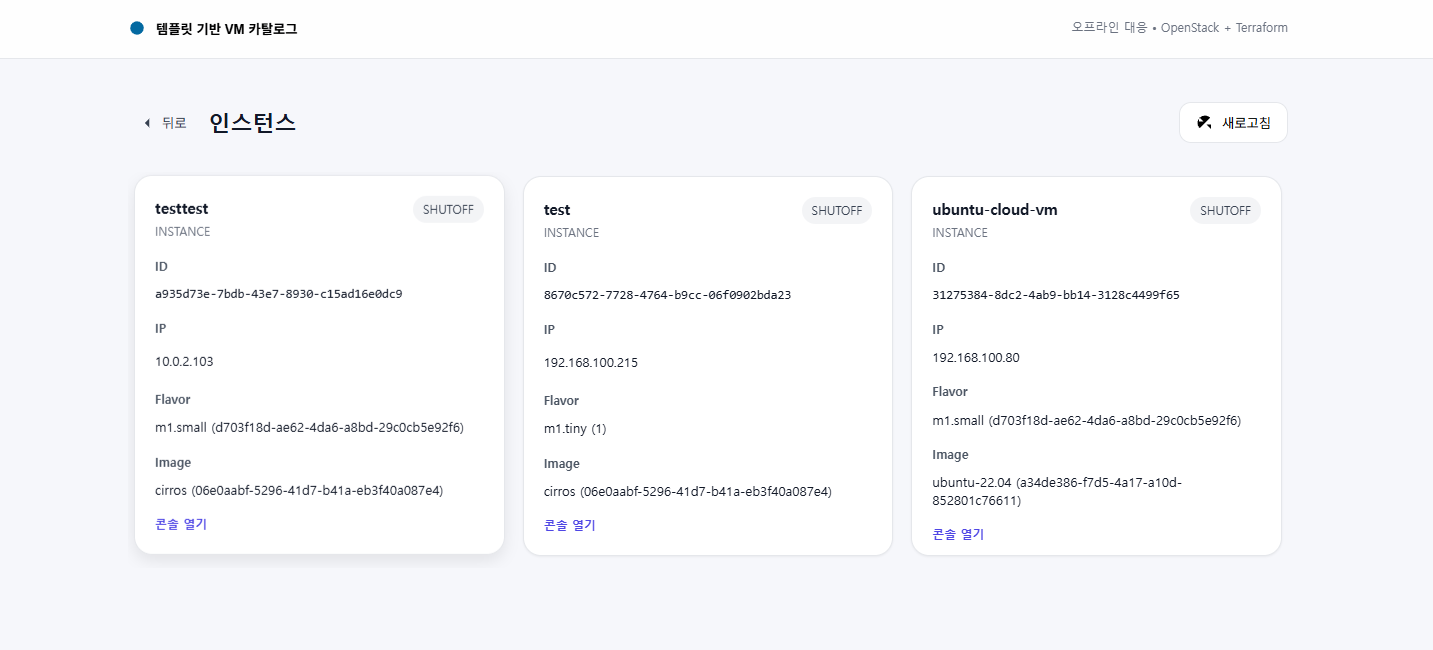
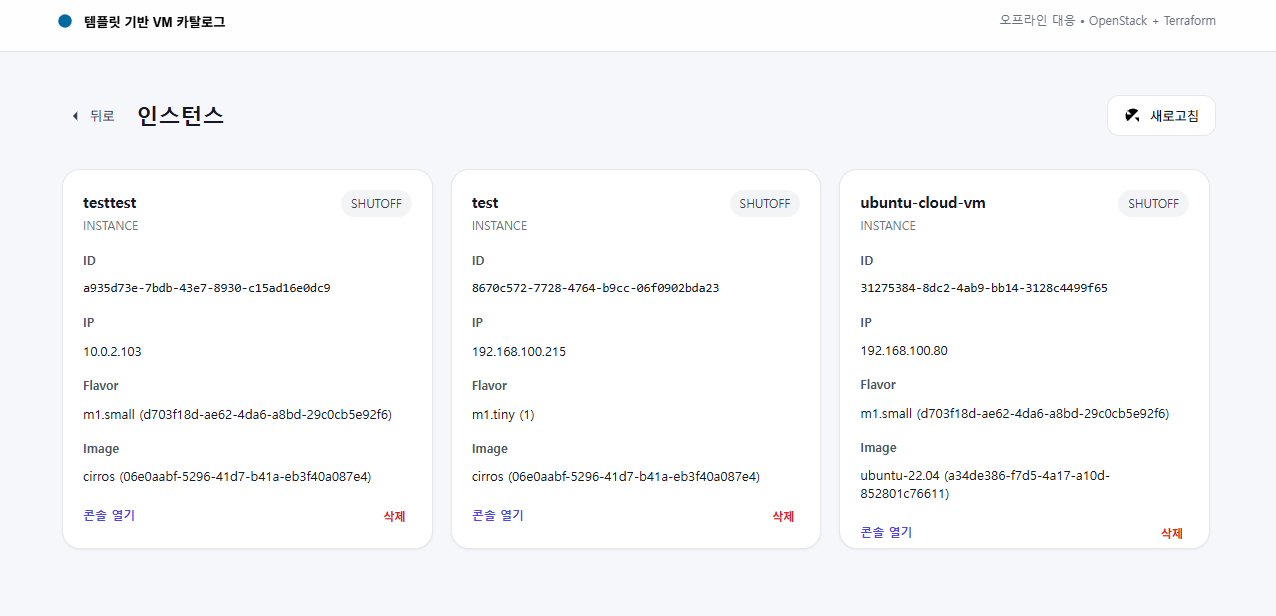
feat: 삭제 버튼 추가

diff --git a/src/main/resources/static/app.js b/src/main/resources/static/app.js
@@ -151,6 +151,8 @@ function renderInstances(items) {
             ? `<a class="console-link" href="${it.consoleUrl}" target="_blank" rel="noreferrer">콘솔 열기</a>`
             : `<span class="muted" style="font-size:12px;">콘솔 URL 없음</span>`;
 
+        const deleteBtn = `<button class="link-delete" data-id="${escapeHtml(it.id || '')}">삭제</button>`;
+
         const el = document.createElement("div");
         el.className = "card instance";
         el.innerHTML = `
@@ -178,11 +180,28 @@ function renderInstances(items) {
           <span class="label">Image</span>
           <span class="value">${escapeHtml(image)}</span>
         </div>
-        <div class="kv">
-          ${consoleHtml}
+        <div class="kv kv-actions">
+          <div>${consoleHtml}</div>
+          <div>${deleteBtn}</div>
         </div>
       </div>
     `;
+        const delBtn = el.querySelector("button.link-delete");
+        if (delBtn) {
+            delBtn.addEventListener("click", async () => {
+                const targetId = it.id;
+                if (!targetId) { alertMsg("삭제할 ID가 없습니다.", true); return; }
+                if (!confirm(`이 인스턴스(ID: ${targetId})를 삭제할까요?`)) return;
+                try {
+                    const resp = await fetch(`${API_BASE}/api/orders/${encodeURIComponent(targetId)}`, { method: "DELETE" });
+                    if (!resp.ok) throw new Error(await resp.text());
+                    alertMsg("삭제 요청을 보냈습니다.");
+                    loadInstances();
+                } catch (e) {
+                    alertMsg(`삭제 실패: ${e.message || e}`, true);
+                }
+            });
+        }
         grid.appendChild(el);
     });
 }

diff --git a/src/main/resources/static/styles.css b/src/main/resources/static/styles.css
@@ -89,6 +89,8 @@ body{margin:0;background:var(--bg);color:var(--ink);font:15px/1.6 system-ui,-app
 .btn.ghost{background:#fff}
 .btn.primary{background:var(--sky);color:#fff;border-color:transparent}
 .btn.primary:hover{background:#065985}
+.btn.danger{background:#fee2e2;border-color:#fecdd3;color:#991b1b}
+.btn.danger:hover{background:#fecdd3}
 .spinner{width:16px;height:16px;border:2px solid rgba(255,255,255,.5);border-top-color:#fff;border-radius:50%;display:inline-block;animation:spin .8s linear infinite;margin-right:6px}
 .loading .spinner{border-color:#d1d5db;border-top-color:#6b7280}
 @keyframes spin{to{transform:rotate(360deg)}}
@@ -121,6 +123,9 @@ body{margin:0;background:var(--bg);color:var(--ink);font:15px/1.6 system-ui,-app
 .card.instance .kv .value{color:#111827;line-height:1.4}
 .card.instance .kv .value,
 .card.instance .kv .mono{word-break:break-word}
+.card.instance .kv.kv-actions{display:flex;align-items:center;justify-content:space-between;gap:10px;margin-top:4px}
+.card.instance .link-delete{background:none;border:0;padding:4px 6px;border-radius:8px;color:#dc2626;font-weight:700;font-size:12px;cursor:pointer}
+.card.instance .link-delete:hover{text-decoration:underline;background:#fee2e2}
 .card.instance .kv .mono{font-family:ui-monospace, SFMono-Regular, Menlo, Monaco, Consolas, "Liberation Mono", "Courier New", monospace;font-size:12.5px}
 .card.instance .console-link{font-size:12px;font-weight:700;color:var(--indigo);text-decoration:none}
 .card.instance .console-link:hover{text-decoration:underline}

diff --git a/README.md b/README.md
@@ -1,39 +1,124 @@
 # VMCatalog
-Terraform과 openstack4j 사용 실습을 위한 학습용 프로젝트입니다.
+**Terraform + OpenStack(openstack4j) 기반 VM 셀프서비스 카탈로그 학습 프로젝트**
 
-오프라인 환경에서도 즉시 VM을 생성·부팅하고, 첫 부팅 시 cloud-init으로 내부 설정을 자동 적용하는 셀프서비스 카탈로그 웹앱입니다. OpenStack과 Terraform을 사용하며, 역할별 템플릿(Web/DB)을 제공합니다.
-![img.png](img.png)
+Terraform과 openstack4j를 활용하여 
+**오프라인(OpenStack 내부망) 환경에서도 즉시 VM을 생성·부팅하고 cloud-init으로 초기 설정을 자동 적용**할 수 있는  
+템플릿 기반 VM 카탈로그 웹 애플리케이션입니다.
 
-![img_1.png](img_1.png)
+사용자는 **템플릿(Web / DB)** 을 선택하고 hostname만 입력하면,  
+인프라 설정을 직접 작성하지 않아도 VM을 온디맨드로 생성할 수 있습니다.
+
+---
+
+## 화면 미리보기
+
+### 1. 템플릿 기반 VM 카탈로그 화면
+![카탈로그 화면](img.png)
+
+- Web / DB 역할별 VM 템플릿 제공
+- 각 템플릿은 사전 정의된 리소스 스펙과 cloud-init 설정을 포함
+- Terraform → OpenStack 자동 프로비저닝 흐름을 시각적으로 표현
+
+### 2. 인스턴스 목록 화면
+![인스턴스 목록 화면](img_1.png)
+
+- 생성된 VM 인스턴스를 카드 형태로 나열
+- 상태, IP, Flavor, Image 등 주요 정보 한눈에 확인
+- OpenStack 콘솔 접근 링크 제공
+
+---
 
 ## 핵심 개념
-- 카탈로그 항목(템플릿): Web, DB 두 종류의 역할 정의. 각 템플릿은 기본 리소스 스펙과 cloud-init 템플릿 경로를 갖습니다.
-- 주문(Order): 사용자가 템플릿을 선택하고 hostname만 입력하면 VM 1대를 온디맨드로 생성합니다.
+
+### 템플릿(카탈로그 항목)
+- VM 역할을 정의하는 사전 설정 단위
+- 제공 템플릿
+    - **Web**: Nginx 기반 웹 서버
+    - **DB**: MariaDB/MySQL 단일 노드
+- 각 템플릿은 다음 정보를 포함
+    - 기본 리소스 스펙 (Image, Flavor, Network)
+    - cloud-init 템플릿 경로
+
+### 주문(Order)
+- 사용자가 템플릿을 선택하고 hostname을 입력하면 생성되는 작업 단위
+- 주문 1건 = VM 1대 생성
+- 주문 단위로 Terraform 작업 디렉터리를 분리하여 관리
+
+---
+
 
 ## 동작 흐름
-1) 프론트: 템플릿(Web/DB) 선택, hostname 제출
-2) 작업 디렉터리 `${APP_WORKDIR}/{orderId}` 생성 후 `infra/terraform` 통째로 복사
-3) 템플릿별 기본값(네트워크/이미지/플레이버/키, cloud-init 템플릿 경로) 로드
-4) cloud-init 템플릿 렌더링 → `cloudinit/{web|db}.yaml` 저장, `terraform.tfvars` 생성
-5) Terraform 실행: VM 생성, 상태 BUILD → ACTIVE
-6) `terraform output -json` 결과를 `OrderResult`로 응답
-7) `DELETE /api/orders/{orderId}` → 해당 작업 디렉터리에서 `terraform destroy -auto-approve`
+1) **주문 요청**  
+   `POST /api/orders/web` (또는 `/db`)을 호출하면 주문 ID/템플릿/hostname/name을 입력받습니다.
+2) **작업 디렉터리 준비**  
+   `${APP_WORKDIR}/{orderId}`를 만들고 `infra/terraform` 모듈을 그대로 복사합니다.
+3) **템플릿별 기본값/경로 결정**  
+   (네트워크/이미지/플레이버, cloud-init 템플릿 경로)
+4) **cloud-init 렌더링**  
+   템플릿 파일을 읽어 hostname을 치환해 `cloudinit/{web|db}.yaml`로 저장합니다.
+    - 저장소에는 `cloudinit-templates/web.yaml`만 있습니다.
+    - DB 템플릿을 쓰려면 `cloudinit-templates/db.yaml`(또는 설정된 경로) 파일을 직접 추가해야 합니다.
+5) **terraform.tfvars 생성**  
+   name, network_id, image_id, flavor_id, user_data(file 경로)을 기록합니다.
+6) **Terraform 실행**  
+   `terraform init` → `terraform apply -auto-approve`를 수행합니다.
+7) **결과 반환**  
+   `terraform output -json`을 파싱해 `serverId/serverName/ipInfo` 등을 `OrderResult`로 응답합니다.
+8) **삭제** (카탈로그로 생성한 인스턴스만 삭제 가능합니다.)  
+   `DELETE /api/orders/{orderId}` → 해당 작업 디렉터리에서 `terraform destroy -auto-approve`.
+
+
+---
 
 ## 필요 환경
-- Java 17, Gradle (wrapper 사용 가능)
-- Terraform CLI (PATH에 등록)
-- OpenStack 자격 정보: OS_AUTH_URL, OS_USERNAME, OS_PASSWORD, OS_PROJECT_NAME, OS_USER_DOMAIN_NAME, OS_PROJECT_DOMAIN_NAME, OS_REGION_NAME, OS_INTERFACE 
-(.env.sample을 참고하여 .env.secret파일을 생성합니다.)
-- 작업/모듈 경로: `APP_WORKDIR`(주문별 TF 작업 디렉터리 루트), `APP_TF_MODULE_DIR`(기본값: `infra/terraform`)
 
-## 프로젝트 구조
-- src/main/java/com/example/VMCatalog : Spring Boot 앱, Terraform/Cloud-init 서비스, DTO, 컨트롤러
-- src/main/resources/static/index.html : 카탈로그 & 빌더 단일 페이지
-- infra/terraform : OpenStack VM 프로비저닝 모듈 및 cloud-init 템플릿
+### 필수 소프트웨어
+- Java 17
+- Gradle (wrapper 사용 가능)
+- Terraform CLI (PATH 등록)
+
+### OpenStack 인증 정보
+다음 환경 변수가 필요합니다.
+- `OS_AUTH_URL`
+- `OS_USERNAME`
+- `OS_PASSWORD`
+- `OS_PROJECT_NAME`
+- `OS_USER_DOMAIN_NAME`
+- `OS_PROJECT_DOMAIN_NAME`
+- `OS_REGION_NAME`
+- `OS_INTERFACE`
+
+
+- `.env.sample`을 참고하여 `.env.secret` 파일을 생성합니다.
+
+### Terraform 변수 파일(tfvars)
+Terraform 실행을 위해 역할별 tfvars 파일이 반드시 필요합니다.
+
+다음 파일을 직접 생성해야 합니다.
+
+- `infra/terraform/terraform-web.tfvars`
+- `infra/terraform/terraform-db.tfvars`
+
+각 파일은 아래 샘플을 참고하여 작성합니다.
+
+- `infra/terraform/terraform-web.tfvars.sample`
+- `infra/terraform/terraform-db.tfvars.sample`
+
+### 애플리케이션 설정
+- `APP_WORKDIR`
+    - 주문별 Terraform 작업 디렉터리 루트
+- `APP_TF_MODULE_DIR`
+    - 기본값: `infra/terraform`
+
+---
 
 ## 실행 방법
-- .env.sample 참고해서 .env.secret 파일 작성
-- \infra\terraform\terraform-{db|web}.tfvars.sample 참고해서 .tfvars 파일들 작성
-- 백엔드 실행
-- 웹에서 API 호출로 주문 생성 → VM 상태/콘솔/로그 확인
-  - cloud-init 로그: /var/log/cloud-init.log, /var/log/cloud-init-output.log
+
+- .env.sample 참고하여 .env.secret 작성
+- `infra/terraform/terraform-{web|db}.tfvars.sample`을 참고하여  
+  아래 실제 변수 파일을 생성합니다. (Terraform 실행 시 사용)
+    - `infra/terraform/terraform-web.tfvars`
+    - `infra/terraform/terraform-db.tfvars`
+- Spring Boot 애플리케이션 실행
+- 웹 페이지에서 템플릿 선택 → 주문 생성
+- VM 생성 상태 및 콘솔 확인
